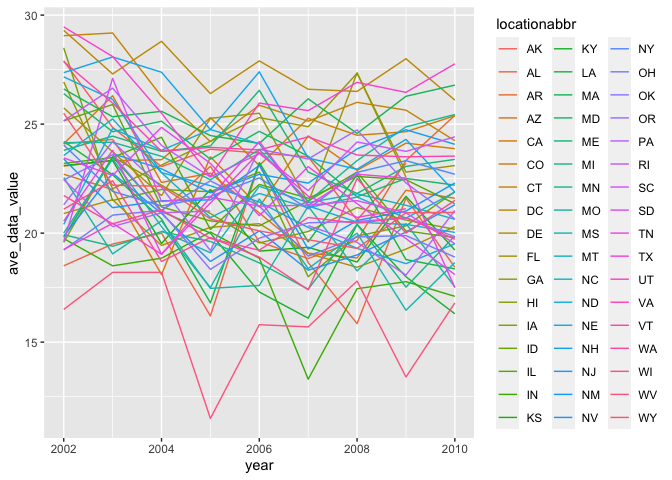
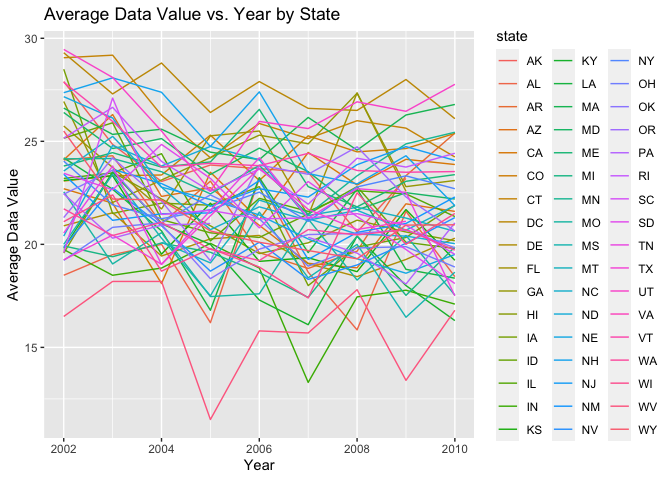
problem 2 add labels

diff --git a/p8105_hw3_xt2288.md b/p8105_hw3_xt2288.md
@@ -149,6 +149,7 @@ data cleaning
 ``` r
 brfss_clean = brfss_smart2010 |>
   janitor::clean_names() |>
+  rename(state = locationabbr, location_state = locationdesc) |>
   filter(topic == "Overall Health") |>
   mutate(
     response = factor(response, levels=c("Poor","Fair","Good", "Very good","Excellent"))
@@ -162,21 +163,21 @@ brfss_clean = brfss_smart2010 |>
 brfss_2002 = 
   brfss_clean |>
   filter(year == 2002) |>
-  group_by(locationabbr, response) |>
+  group_by(state, response) |>
   summarize(
     n_obs = n()
   ) |>
   filter(n_obs >=7)
 ```
 
-    ## `summarise()` has grouped output by 'locationabbr'. You can override using the
+    ## `summarise()` has grouped output by 'state'. You can override using the
     ## `.groups` argument.
 
 ``` r
 brfss_2010 = 
   brfss_clean |>
   filter(year == 2010) |>
-  count(locationabbr, name = "n_obs") |>
+  count(state, name = "n_obs") |>
   filter(n_obs >= 7*5)
 ```
 
@@ -194,15 +195,20 @@ observed at 7 or more locations.
 ``` r
 brfss_clean |>
   filter(response == "Excellent") |>
-  group_by(locationabbr, year) |>
+  group_by(state, year) |>
   summarize(
     ave_data_value = mean(data_value) 
   ) |>
-  ggplot(aes(x = year, y = ave_data_value, color = locationabbr)) +
-    geom_line()
+  ggplot(aes(x = year, y = ave_data_value, color = state)) +
+    geom_line() +
+  labs(
+    title = "Average Data Value vs. Year by State",
+    x = "Year",
+    y = "Average Data Value"
+  )
 ```
 
-    ## `summarise()` has grouped output by 'locationabbr'. You can override using the
+    ## `summarise()` has grouped output by 'state'. You can override using the
     ## `.groups` argument.
 
     ## Warning: Removed 3 rows containing missing values (`geom_line()`).
@@ -215,7 +221,7 @@ brfss_clean |>
 
 ``` r
 brfss_clean |>
-  filter(locationabbr == "NY" & (year == 2006 | year == 2010)) |>
+  filter(state == "NY" & (year == 2006 | year == 2010)) |>
   ggplot(aes(x = response, y = data_value, color = year)) + 
     geom_boxplot() +
     facet_grid(. ~ year)
